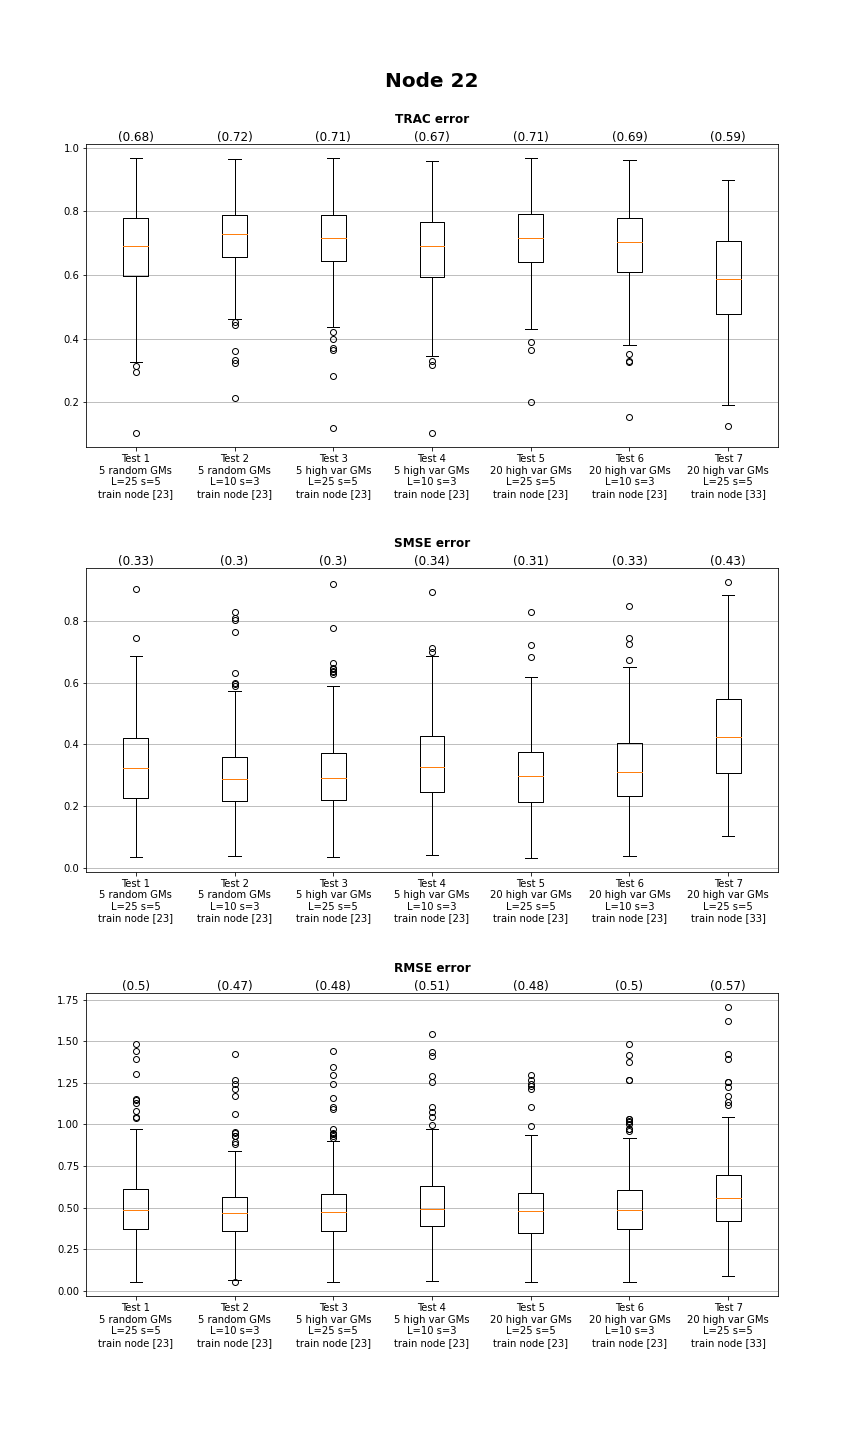
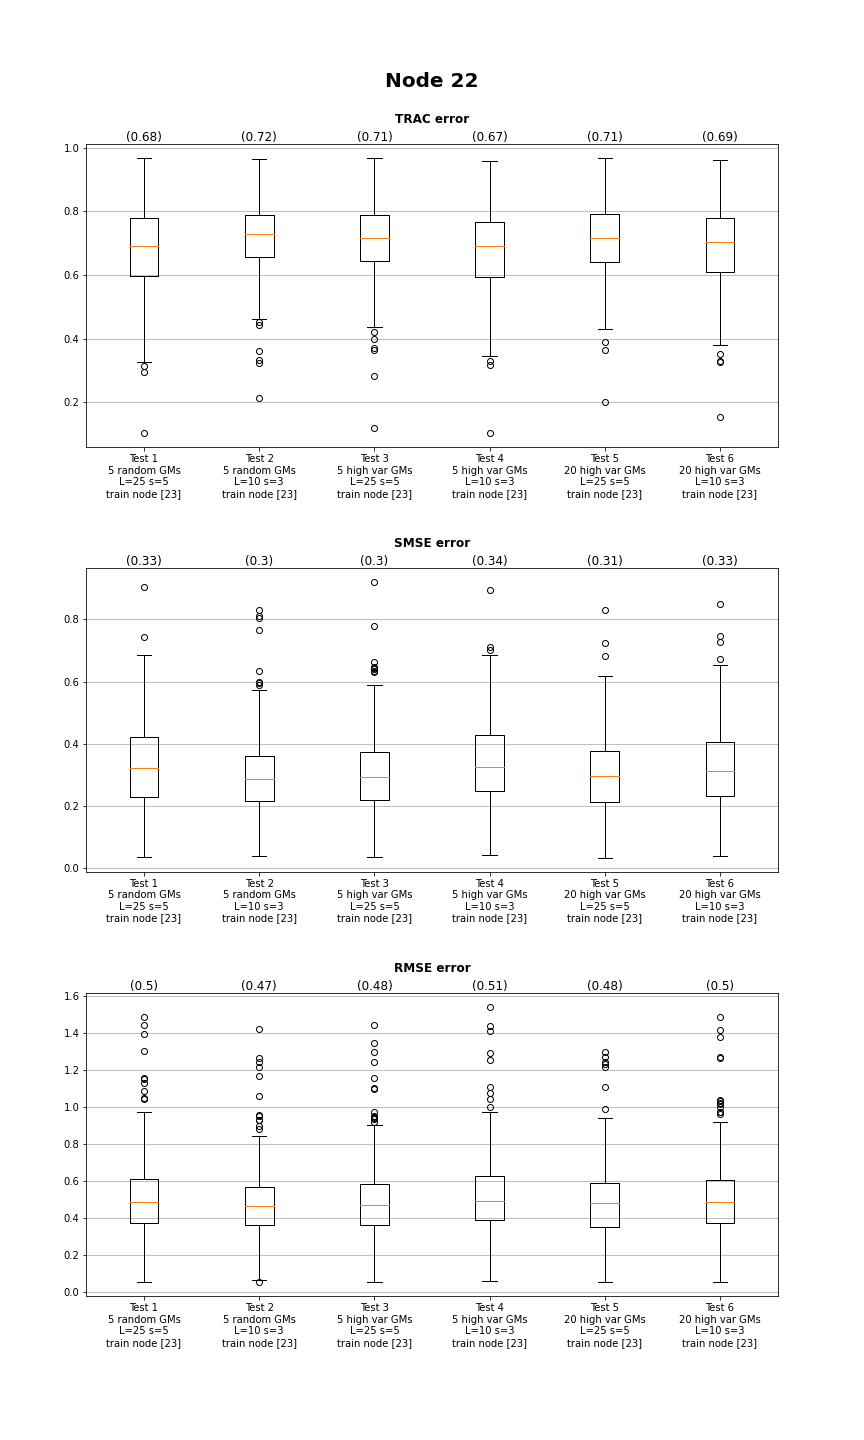
Box plot 6 tests

diff --git a/OpenSeesPy_Model_2_Steel_Frame_2D_Python/Box_plots.py b/OpenSeesPy_Model_2_Steel_Frame_2D_Python/Box_plots.py
@@ -24,7 +24,7 @@ test_vec = [
             'Test 4\n5 high var GMs\nL=10 s=3\ntrain node [23]',
             'Test 5\n20 high var GMs\nL=25 s=5\ntrain node [23]',
             'Test 6\n20 high var GMs\nL=10 s=3\ntrain node [23]',
-            'Test 7\n20 high var GMs\nL=25 s=5\ntrain node [33]',
+            # 'Test 7\n20 high var GMs\nL=25 s=5\ntrain node [33]',
             ]
 
 n_test = len(test_vec)
